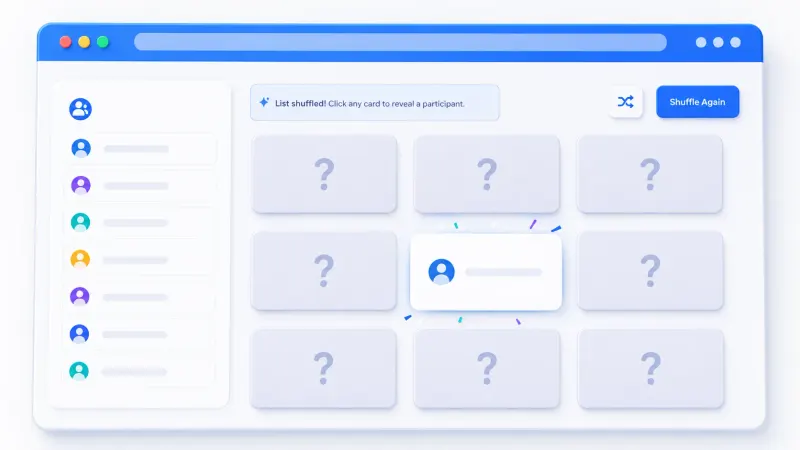
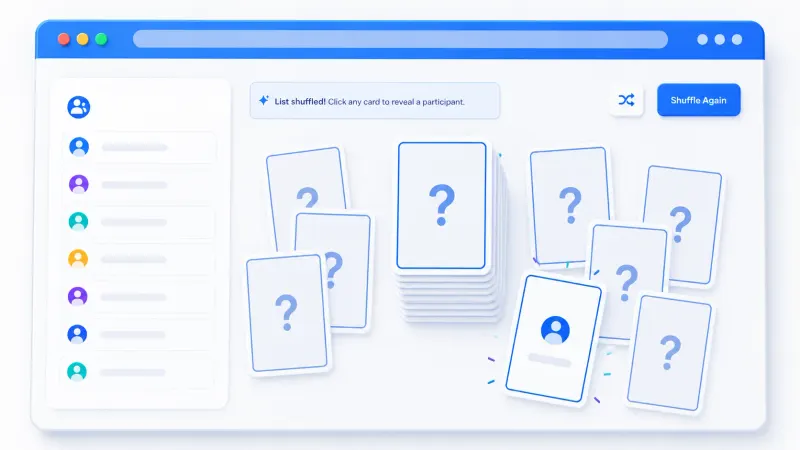
fix(tools): перерисованная иллюстрация жеребьёвки (v4)

diff --git a/scripts/optimize-tool-images.ts b/scripts/optimize-tool-images.ts
@@ -34,7 +34,7 @@ const SRC_OVERRIDES: Record<string, string> = {
 	'random-number-generator': 'tool-random-number-generator-fixed-v5.webp',
 	'typing-speed-test': 'tool-typing-speed-test-fixed.webp',
 	'magic-ball': 'tool-magic-ball-fixed-v2.webp',
-	'draw-lots': 'tool-draw-lots-fixed-v3.webp'
+	'draw-lots': 'tool-draw-lots-fixed-v4.webp'
 }
 
 /** Ищет исходник: сначала override, затем tool-<path>.webp, затем tool-<id>.webp. */
